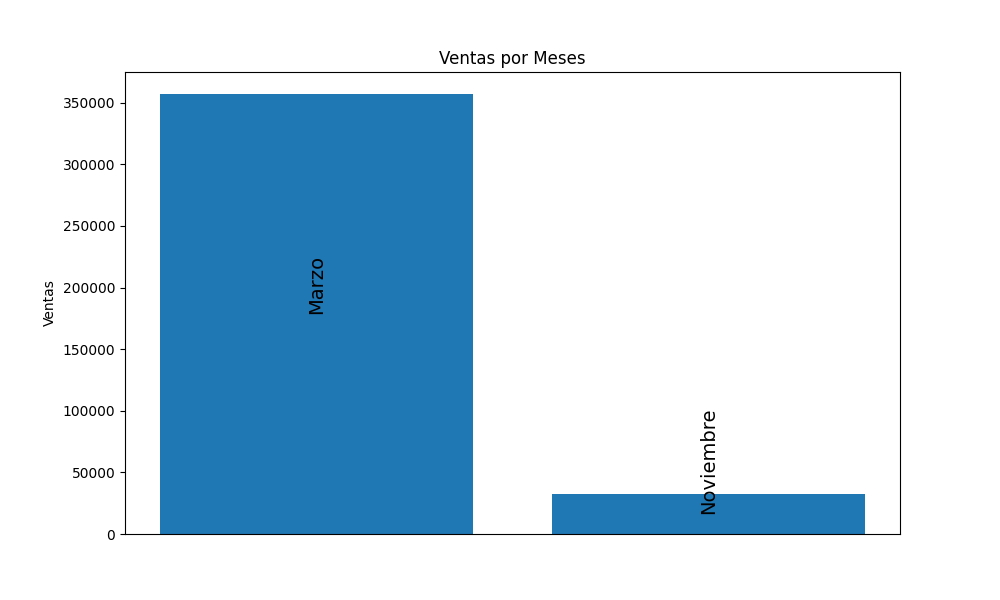
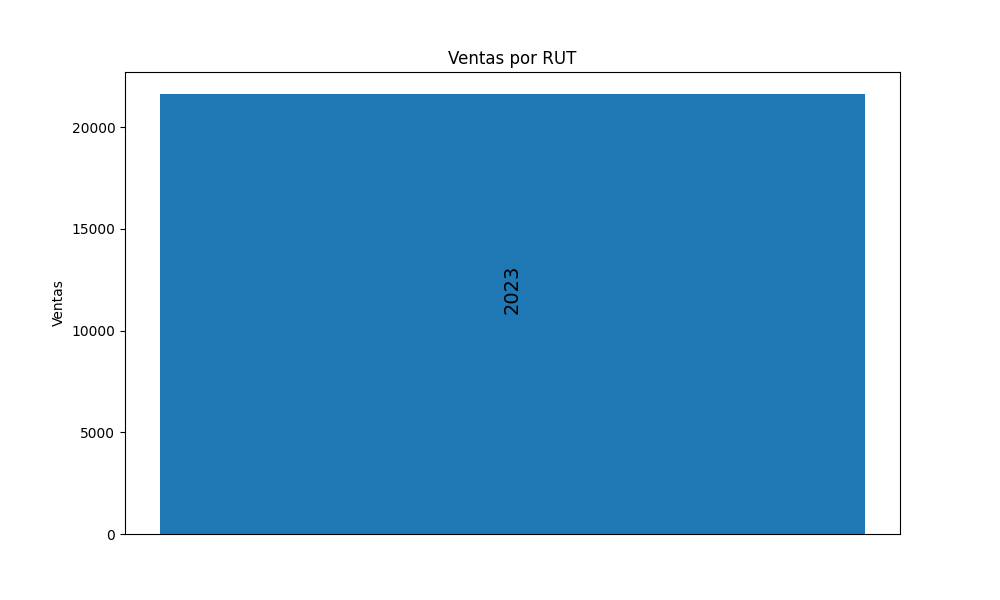
.

diff --git a/Panaderia/src/GUI_Boleta/BDBoleta.java b/Panaderia/src/GUI_Boleta/BDBoleta.java
@@ -235,18 +235,17 @@ public class BDBoleta {
         try {
             FileWriter writerRut = new FileWriter(direccionTexto1);
             FileWriter writerVenta = new FileWriter(direccionTexto2);
-            
-            for(String rut : texto1){
+
+            for (String rut : texto1) {
                 writerRut.write(rut + "\n");
             }
-            
-            for(String venta : texto2){
+
+            for (String venta : texto2) {
                 writerVenta.write(venta + "\n");
             }
-            
+
             writerRut.close();
             writerVenta.close();
-            
 
             String cmdStr = directoryPath + "\\src\\Python\\grafico1.py";
             ProcessBuilder Process_Builder = new ProcessBuilder("python", cmdStr).inheritIO();
@@ -262,20 +261,19 @@ public class BDBoleta {
             frame.pack();
             frame.setLocationRelativeTo(null);
             frame.setVisible(true);
-            
+
         } catch (IOException ex) {
             Logger.getLogger(BDBoleta.class.getName()).log(Level.SEVERE, null, ex);
         }
-        
 
     }
-    
-    public void graficar2(String anio) throws SQLException, InterruptedException{
+
+    public void graficar2(String anio) throws SQLException, InterruptedException {
         String[] texto1, texto2;
         int anioInt = Integer.parseInt(anio);
         int i = 0;
         Connection connection = DriverManager.getConnection(url, username, password);
-        String consulta = "SELECT mes, SUM(total_venta) as ventas_totales FROM venta WHERE anio = ? GROUP BY mes ORDER BY mes";
+        String consulta = "SELECT mes, AVG(total_venta) as ventas_totales FROM venta WHERE anio = ? GROUP BY mes ORDER BY mes";
         PreparedStatement preparedStatement = connection.prepareStatement(consulta);
         preparedStatement.setInt(1, anioInt);
         ResultSet resultSet = preparedStatement.executeQuery();
@@ -303,18 +301,17 @@ public class BDBoleta {
         try {
             FileWriter writerRut = new FileWriter(direccionTexto1);
             FileWriter writerVenta = new FileWriter(direccionTexto2);
-            
-            for(String rut : texto1){
+
+            for (String rut : texto1) {
                 writerRut.write(rut + "\n");
             }
-            
-            for(String venta : texto2){
+
+            for (String venta : texto2) {
                 writerVenta.write(venta + "\n");
             }
-            
+
             writerRut.close();
             writerVenta.close();
-            
 
             String cmdStr = directoryPath + "\\src\\Python\\grafico2.py";
             ProcessBuilder Process_Builder = new ProcessBuilder("python", cmdStr).inheritIO();
@@ -330,10 +327,72 @@ public class BDBoleta {
             frame.pack();
             frame.setLocationRelativeTo(null);
             frame.setVisible(true);
-            
+
         } catch (IOException ex) {
             Logger.getLogger(BDBoleta.class.getName()).log(Level.SEVERE, null, ex);
         }
     }
 
+    public void graficar3() throws SQLException, InterruptedException {
+        String[] texto1, texto2;
+        int i = 0;
+        Connection connection = DriverManager.getConnection(url, username, password);
+        String consulta = "SELECT anio, AVG(total_venta) as promedio FROM venta GROUP BY anio";
+        PreparedStatement preparedStatement = connection.prepareStatement(consulta);
+        ResultSet resultSet = preparedStatement.executeQuery();
+
+        while (resultSet.next()) {
+            i++;
+        }
+
+        texto1 = new String[i];
+        texto2 = new String[i];
+        i = 0;
+        resultSet = preparedStatement.executeQuery();
+
+        while (resultSet.next()) {
+            texto1[i] = resultSet.getString("anio");
+            texto2[i] = resultSet.getString("promedio");
+            i++;
+        }
+
+        File file = new File("GUI_Boleta.java");
+        String directoryPath = file.getAbsoluteFile().getParent();
+        String direccionTexto1 = directoryPath + "\\src\\Python\\texto1.txt";
+        String direccionTexto2 = directoryPath + "\\src\\Python\\texto2.txt";
+
+        try {
+            FileWriter writerRut = new FileWriter(direccionTexto1);
+            FileWriter writerVenta = new FileWriter(direccionTexto2);
+
+            for (String rut : texto1) {
+                writerRut.write(rut + "\n");
+            }
+
+            for (String venta : texto2) {
+                writerVenta.write(venta + "\n");
+            }
+
+            writerRut.close();
+            writerVenta.close();
+
+            String cmdStr = directoryPath + "\\src\\Python\\grafico3.py";
+            ProcessBuilder Process_Builder = new ProcessBuilder("python", cmdStr).inheritIO();
+            Process Demo_Process = Process_Builder.start();
+            Demo_Process.waitFor();
+
+            cmdStr = directoryPath + "\\src\\Python\\grafico.png";
+            BufferedImage img = ImageIO.read(new File(cmdStr));
+
+            JLabel label = new JLabel(new ImageIcon(img));
+            JFrame frame = new JFrame();
+            frame.getContentPane().add(label, BorderLayout.CENTER);
+            frame.pack();
+            frame.setLocationRelativeTo(null);
+            frame.setVisible(true);
+
+        } catch (IOException ex) {
+            Logger.getLogger(BDBoleta.class.getName()).log(Level.SEVERE, null, ex);
+        }
+    }
 }

diff --git a/Panaderia/src/GUI_Boleta/GUI_Boleta.java b/Panaderia/src/GUI_Boleta/GUI_Boleta.java
@@ -53,7 +53,7 @@ public class GUI_Boleta extends javax.swing.JFrame {
                 if ("Cantidad generada por cada empleado".equals(selectedItem)) {
                     labelAnio.setVisible(false);
                     comboboxAnio.setVisible(false);
-                } else if ("Cantidad generada en cada mes".equals(selectedItem)) {
+                } else if ("Promedio generado en cada mes".equals(selectedItem)) {
                     labelAnio.setVisible(true);
                     comboboxAnio.setVisible(true);
                 } else if ("Promedio de ventas anuales".equals(selectedItem)) {
@@ -253,7 +253,7 @@ public class GUI_Boleta extends javax.swing.JFrame {
         });
         getContentPane().add(jButton3, new org.netbeans.lib.awtextra.AbsoluteConstraints(0, 666, 100, -1));
 
-        Grafica.setModel(new javax.swing.DefaultComboBoxModel<>(new String[] { "Cantidad generada por cada empleado", "Cantidad generada en cada mes", "Promedio de ventas anuales" }));
+        Grafica.setModel(new javax.swing.DefaultComboBoxModel<>(new String[] { "Cantidad generada por cada empleado", "Promedio generado en cada mes", "Promedio de ventas anuales" }));
         Grafica.addActionListener(new java.awt.event.ActionListener() {
             public void actionPerformed(java.awt.event.ActionEvent evt) {
                 GraficaActionPerformed(evt);
@@ -600,11 +600,11 @@ public class GUI_Boleta extends javax.swing.JFrame {
             String selectedItem = (String) Grafica.getSelectedItem();
             if ("Cantidad generada por cada empleado".equals(selectedItem)) {
                 new BDBoleta().graficar1();
-            } else if ("Cantidad generada en cada mes".equals(selectedItem)) {
+            } else if ("Promedio generado en cada mes".equals(selectedItem)) {
                 String anio = (String) comboboxAnio.getSelectedItem();
                 new BDBoleta().graficar2(anio);
             } else if ("Promedio de ventas anuales".equals(selectedItem)) {
-
+                new BDBoleta().graficar3();
             }
 
         } catch (SQLException ex) {

diff --git a/Panaderia/src/Python/grafico3.py b/Panaderia/src/Python/grafico3.py
@@ -1,0 +1,32 @@
+import os
+import pandas as pd
+import matplotlib.pyplot as plt
+
+dir_path = os.path.dirname(os.path.realpath(__file__))
+
+anio = pd.read_csv(dir_path + '/texto1.txt', header=None)
+ventas = pd.read_csv(dir_path + '/texto2.txt', header=None)
+
+df = pd.DataFrame({
+    'Año': anio[0],
+    'Ventas': ventas[0]
+})
+
+plt.figure(figsize=(10,6))
+bars = plt.bar(df['Año'], df['Ventas'])
+plt.ylabel('Ventas')
+plt.title('Ventas por RUT')
+
+# Unir la ruta del directorio con el nombre del archivo
+file_path = os.path.join(dir_path, 'grafico.png')
+
+# Añadir las etiquetas dentro de las barras
+for i, bar in enumerate(bars):
+    yval = bar.get_height()
+    plt.text(bar.get_x() + bar.get_width()/2, yval/2, df['Año'][i], ha='center', va='bottom', fontsize=14, rotation=90)
+
+# Eliminar las etiquetas del eje x
+plt.xticks([])
+
+# Guardar el gráfico en la ruta especificada
+plt.savefig(file_path)
